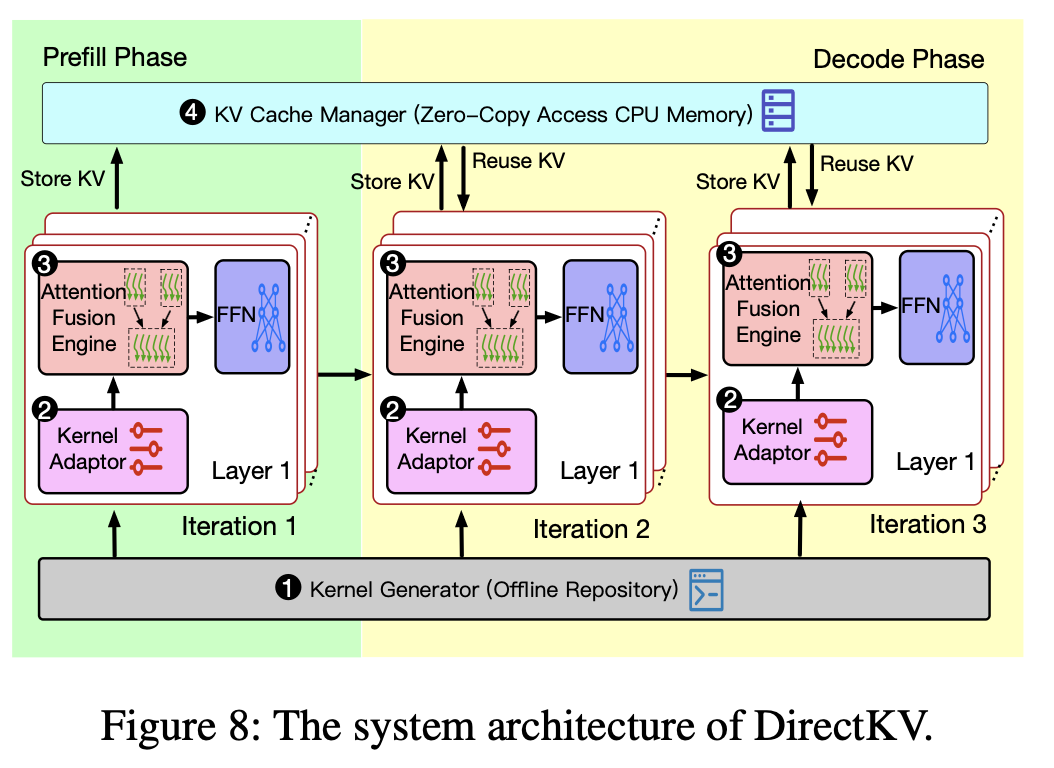
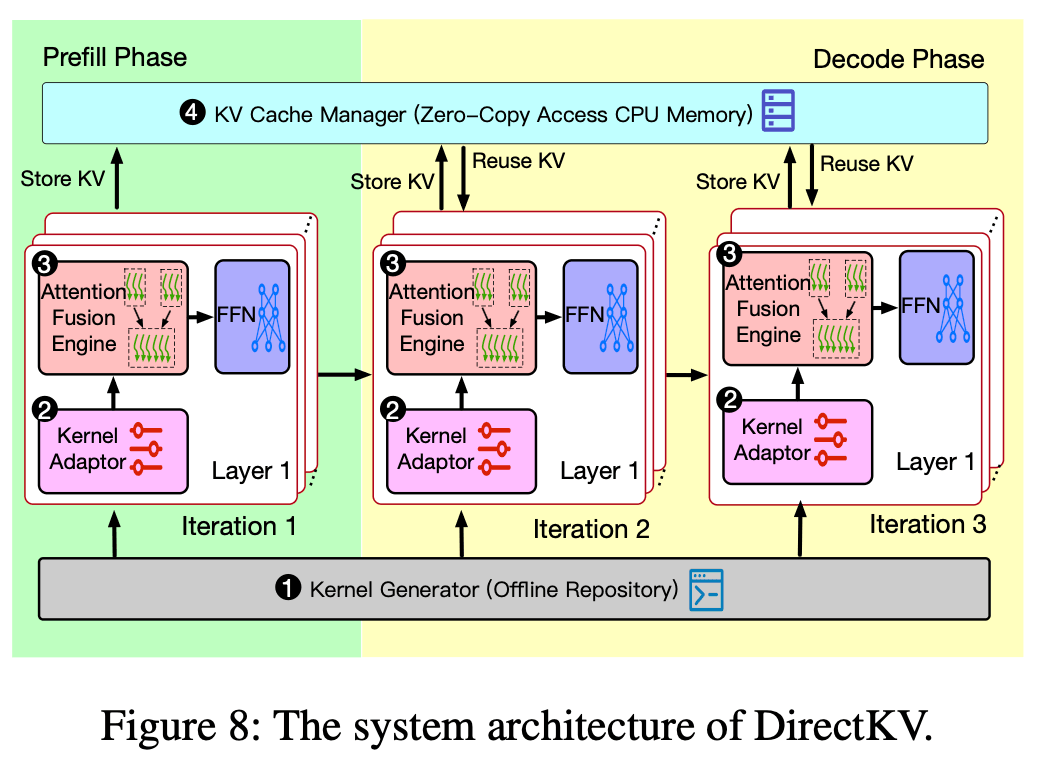
Optimize performance and refactor shared post logic
- Lazy-load search index on first focus; strip markdown from index
- Load KaTeX CSS only on posts containing math
- Recompress images; auto-add lazy loading and width/height to <img>
- Switch Shiki theme to github-light and drop !important overrides
- Extract tags and post sorting/listing into shared modules
- Normalize pubDate to UTC to avoid off-by-one display dates

diff --git a/src/pages/search-index.json.js b/src/pages/search-index.json.js
@@ -1,13 +1,28 @@
-import { getCollection } from 'astro:content';
+import { getPublishedPosts } from '../utils/posts';
+
+// Reduce markdown to plain searchable text so the index stays small.
+function toPlainText(md) {
+  return md
+    .replace(/```[\s\S]*?```/g, ' ') // fenced code blocks
+    .replace(/\$\$[\s\S]*?\$\$/g, ' ') // display math
+    .replace(/<[^>]+>/g, ' ') // html tags
+    .replace(/!\[([^\]]*)\]\([^)]*\)/g, '$1') // images -> alt
+    .replace(/\[([^\]]*)\]\([^)]*\)/g, '$1') // links -> text
+    .replace(/\[\^[^\]]*\]:?/g, ' ') // footnote refs
+    .replace(/^\s{0,3}(#{1,6}|>|[-*+]|\d+\.)\s+/gm, '') // block markers
+    .replace(/[*_~`|]+/g, ' ') // inline formatting, table pipes
+    .replace(/\s+/g, ' ')
+    .trim();
+}
 
 export async function GET() {
-  const posts = await getCollection('blog', ({ data }) => !data.draft);
+  const posts = await getPublishedPosts();
 
   const index = posts.map((post) => ({
     title: post.data.title,
     slug: post.data.slug,
     pubDate: post.data.pubDate,
-    body: post.body || '',
+    body: toPlainText(post.body ?? '').toLowerCase(),
   }));
 
   return new Response(JSON.stringify(index), {

diff --git a/src/content.config.ts b/src/content.config.ts
@@ -1,15 +1,23 @@
 import { defineCollection, z } from 'astro:content';
 import { glob } from 'astro/loaders';
+import { TAGS } from './consts';
+
+// Treat `YYYY-M-D` dates as UTC midnight. JS parses non-zero-padded dates in the
+// build machine's local timezone, which can shift the displayed day.
+const utcDate = z.preprocess((value) => {
+  const m = typeof value === 'string' && value.trim().match(/^(\d{4})-(\d{1,2})-(\d{1,2})$/);
+  return m ? new Date(Date.UTC(+m[1], +m[2] - 1, +m[3])) : value;
+}, z.coerce.date());
 
 const blog = defineCollection({
   loader: glob({ pattern: '**/*.md', base: './src/content/blog' }),
   schema: z.object({
     title: z.string(),
     slug: z.string(),
-    pubDate: z.coerce.date(),
+    pubDate: utcDate,
     draft: z.boolean().optional().default(false),
     pinned: z.boolean().optional().default(false),
-    tags: z.enum(['Tech', 'Money', 'Life', 'Fiction']).array().optional().default([]),
+    tags: z.enum(TAGS).array().optional().default([]),
   }),
 });
 

diff --git a/src/utils/posts.ts b/src/utils/posts.ts
@@ -1,0 +1,25 @@
+import { getCollection, type CollectionEntry } from 'astro:content';
+import { getReadingTime } from './readingTime';
+
+export type Post = CollectionEntry<'blog'>;
+
+export function getPublishedPosts(): Promise<Post[]> {
+  return getCollection('blog', ({ data }) => !data.draft);
+}
+
+export function sortByDate(posts: Post[]): Post[] {
+  return [...posts].sort((a, b) => b.data.pubDate.getTime() - a.data.pubDate.getTime());
+}
+
+/** Pinned posts first, then newest first, each annotated with reading time. */
+export function toPostList(posts: Post[]) {
+  return sortByDate(posts)
+    .sort((a, b) => Number(b.data.pinned) - Number(a.data.pinned))
+    .map((post) => ({ ...post, readingTime: getReadingTime(post.body ?? '') }));
+}
+
+const MATH_RE = /\$\$|\$[^$\s][^$\n]*\$/;
+
+export function hasMath(body: string | undefined): boolean {
+  return MATH_RE.test(body ?? '');
+}

diff --git a/src/pages/rss.xml.js b/src/pages/rss.xml.js
@@ -1,10 +1,8 @@
 import rss from '@astrojs/rss';
-import { getCollection } from 'astro:content';
+import { getPublishedPosts, sortByDate } from '../utils/posts';
 
 export async function GET(context) {
-  const posts = await getCollection('blog', ({ data }) => !data.draft);
-  
-  const sortedPosts = posts.sort((a, b) => b.data.pubDate.getTime() - a.data.pubDate.getTime());
+  const sortedPosts = sortByDate(await getPublishedPosts());
 
   return rss({
     title: 'Michael Liu',

diff --git a/src/utils/date.ts b/src/utils/date.ts
@@ -3,5 +3,6 @@ export function formatDate(date: Date): string {
     year: 'numeric',
     month: 'short',
     day: 'numeric',
+    timeZone: 'UTC',
   });
 }

diff --git a/src/consts.ts b/src/consts.ts
@@ -1,0 +1,2 @@
+export const TAGS = ['Tech', 'Money', 'Life', 'Fiction'] as const;
+export type Tag = (typeof TAGS)[number];
